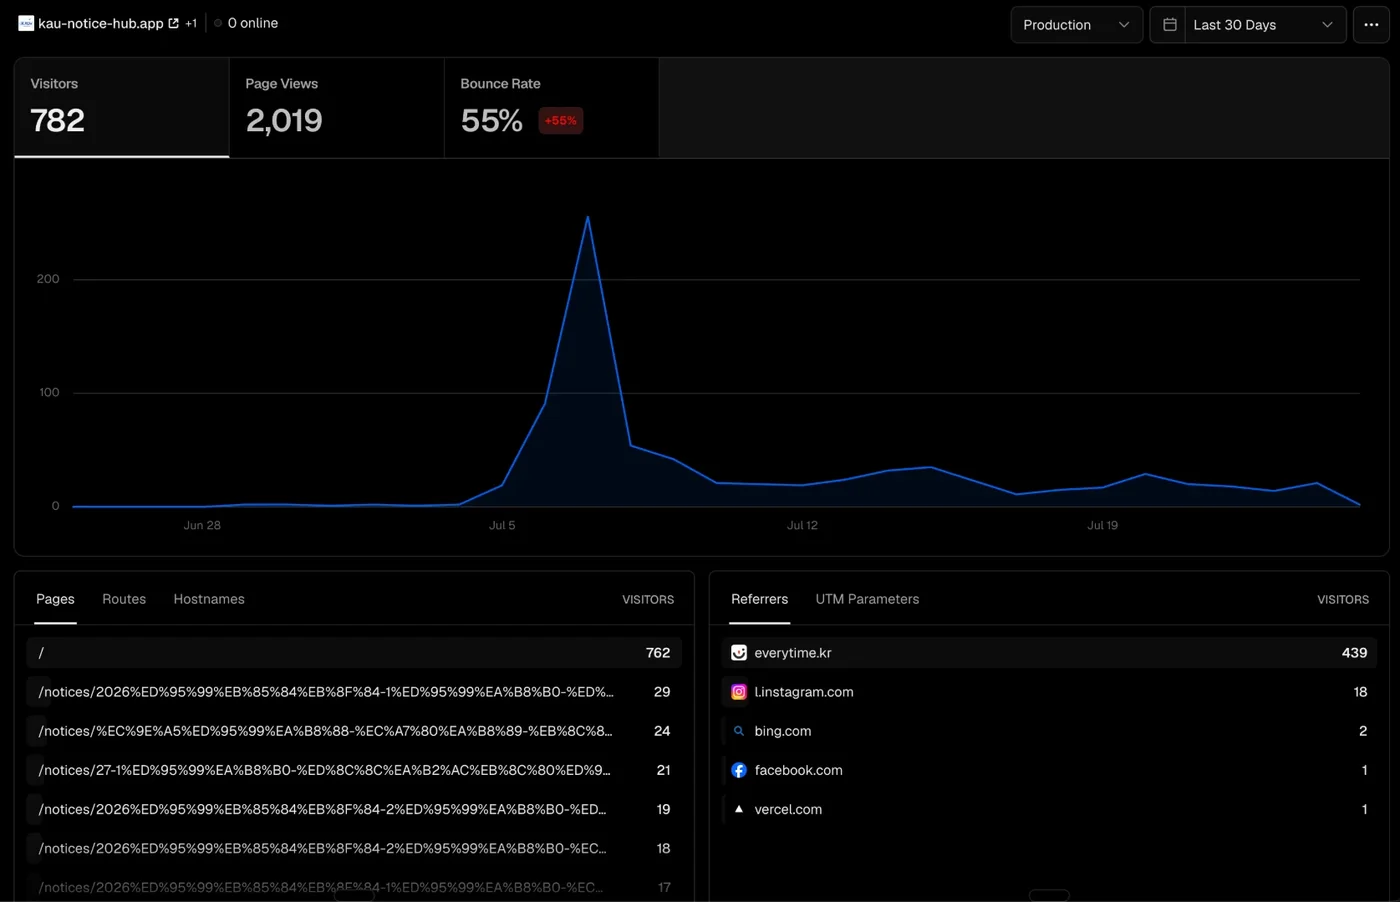
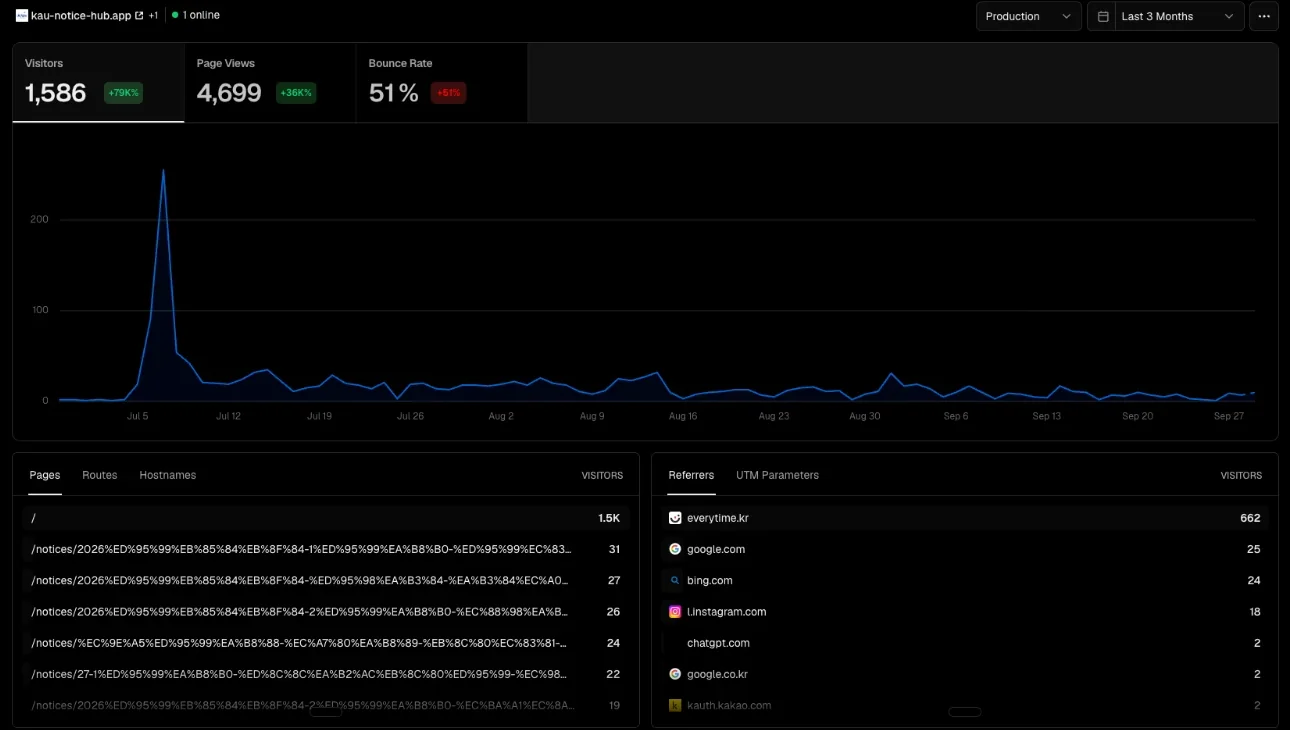
Notice Hub 분석 스크린샷을 최근 3개월 기준으로 교체
- Vercel Analytics 최근 3개월(2026.07-09) 화면으로 갈아끼움
- 사이드바·에이전트 패널·브라우저 크롬을 잘라내고 지표·추이·유입 경로만 남김
- width/height, alt, figcaption을 새 수치(방문자 1,586 / 페이지뷰 4,699 / everytime.kr 662)로 갱신
- README의 이미지 총량 192KB -> 172KB

diff --git a/index.html b/index.html
@@ -411,8 +411,8 @@ figcaption{margin-top:.85rem;font-size:.85rem;color:var(--fg-3);max-width:52ch}
           <p><span class="lead-in">현재</span>월 방문자가 1,000명을 넘습니다(Vercel Analytics). 유입 대부분이 교내 커뮤니티(에브리타임)를 통해 들어오며, AWS Lightsail 단일 서버에서 운영 중입니다. 위 결정들의 과정은 모두 블로그에 기록해 두었습니다.</p>
 
           <figure class="shot-wide">
-            <img src="img/notice-hub-analytics.webp" width="1400" height="902" loading="lazy" decoding="async" alt="Vercel Analytics 대시보드 — 최근 30일 방문자 782명, 페이지뷰 2,019회. 유입 경로 1위는 교내 커뮤니티 everytime.kr 439명">
-            <figcaption>Vercel Analytics — 2026.07 시점 최근 30일 (유입 1위 everytime.kr)</figcaption>
+            <img src="img/notice-hub-analytics.webp" width="1290" height="730" loading="lazy" decoding="async" alt="Vercel Analytics 대시보드 — 최근 3개월 방문자 1,586명, 페이지뷰 4,699회, 이탈률 51%. 유입 경로 1위는 교내 커뮤니티 everytime.kr 662명">
+            <figcaption>Vercel Analytics — 최근 3개월(2026.07 — 09), 유입 1위 everytime.kr</figcaption>
           </figure>
 
           <dl class="kmetrics">

diff --git a/README.md b/README.md
@@ -19,7 +19,7 @@ img/         프로젝트 스크린샷 (WebP)
 - **모션** — `IntersectionObserver` 기반 1회성 fade-up. 초기 숨김 상태는 `html.js` 게이트 뒤에 두어 JS 실패 시에도 콘텐츠가 보이며, `prefers-reduced-motion: reduce`를 존중
 - **내비게이션** — 뷰포트 중앙 띠(`rootMargin`)로 활성 섹션을 판정하고 `aria-current`로 표시
 - **접근성** — 스킵 링크, 랜드마크·헤딩 구조, `:focus-visible` 링, 본문 대비 4.5:1 이상
-- **성능** — 이미지 전량 WebP(총 192KB), `width`/`height` 명시로 CLS 방지, 외부 의존성·트래커 없음
+- **성능** — 이미지 전량 WebP(총 172KB), `width`/`height` 명시로 CLS 방지, 외부 의존성·트래커 없음
 
 ## 로컬 실행
 
